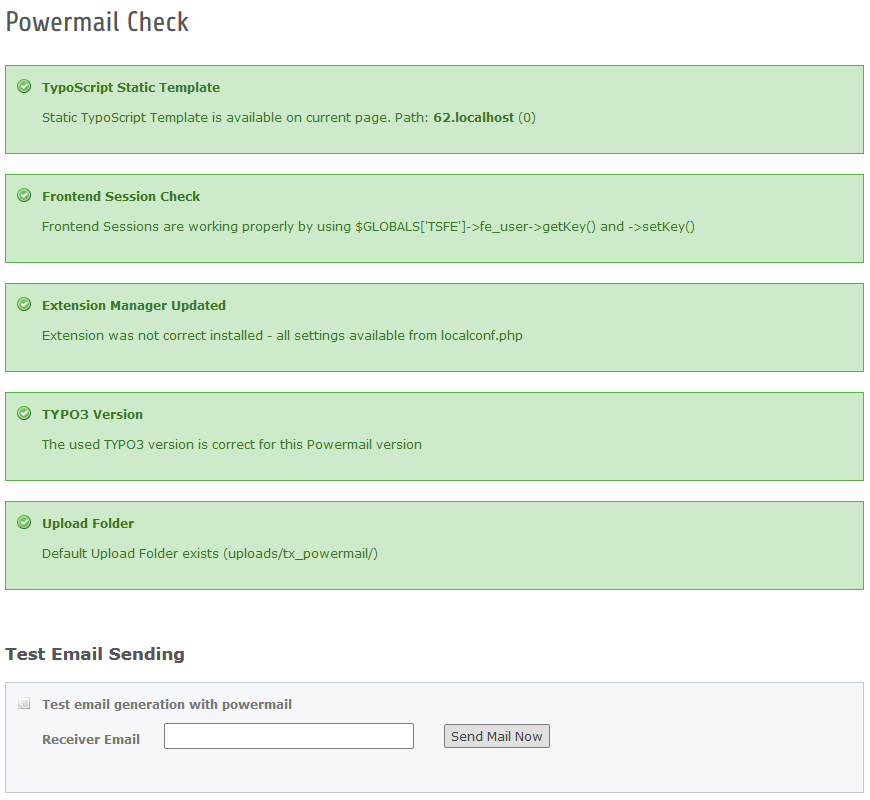
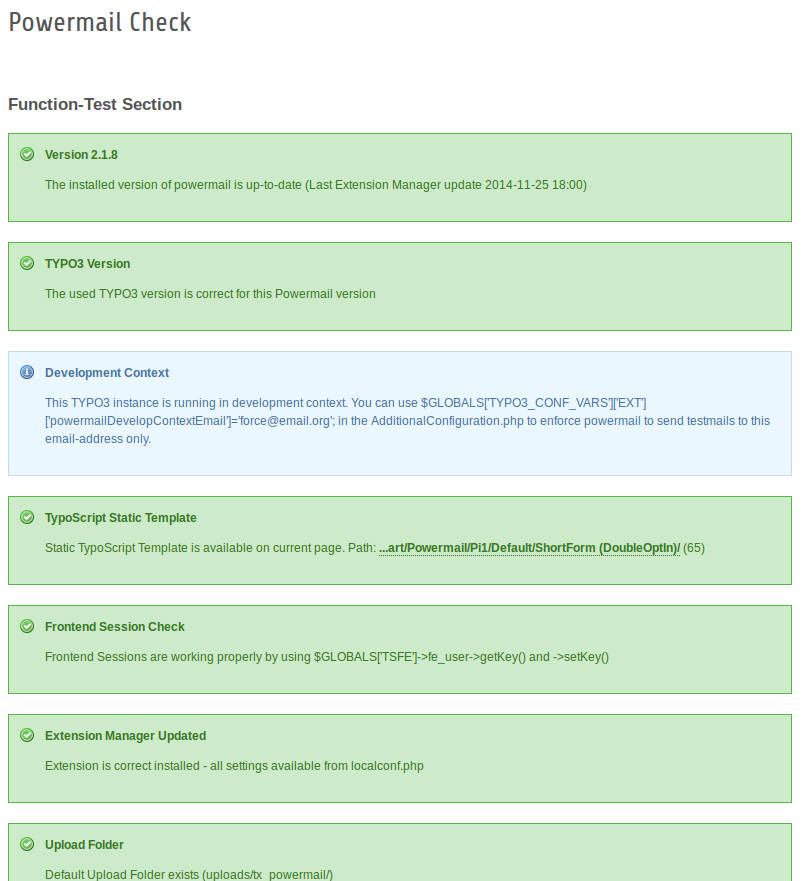
[TASK] Added some more information to Documentation/Backend Module

diff --git a/Documentation/ForEditors/ManageMailsWithBackendModule/Index.rst b/Documentation/ForEditors/ManageMailsWithBackendModule/Index.rst
@@ -290,7 +290,89 @@ Function Check
 This views helps you to identify problems with your TYPO3-Installation and Powermail.
 Beside some basic checks there is a mail function. This function basicly works like the main powermail mail function. Test this function if your forms don't send mails.
 
+Note: This view is for admins only.
+
 |img-81f|
+
+.. t3-field-list-table::
+ :header-rows: 1
+
+ - :Title:
+      Title
+   :Description:
+      Description
+   :Additional:
+      Additional
+
+ - :Title:
+      Version
+   :Description:
+      This line shows you the current version of powermail.
+   :Additional:
+      If there are values in tx_extensionmanager_domain_model_extension, you will see a note if there is a newer version of powermail available. If a powermail version was marked as unsecure, this is also shown.
+
+ - :Title:
+      TYPO3 Version
+   :Description:
+      This check compares if the installed powermail version fits to the support TYPO3 version.
+   :Additional:
+      -
+
+ - :Title:
+      Development Context
+   :Description:
+      This line gives you a hint if you use powermailDevelopContextEmail to send all mails to a defined receiver
+   :Additional:
+      This note is only shown, if your TYPO3 runs in Development Context
+
+ - :Title:
+      TypoScript Static Template
+   :Description:
+      Checks if TypoScript is available on current page
+   :Additional:
+      -
+
+ - :Title:
+      Frontend Session Check
+   :Description:
+      Check if Installation can work with FE-Sessions
+   :Additional:
+      -
+
+ - :Title:
+      Extension Manager Updated
+   :Description:
+      Check if all params from Extension Manager settings are available
+   :Additional:
+      -
+
+ - :Title:
+      Upload Folder
+   :Description:
+      Check if folder uploads/tx_powermail/ exists
+   :Additional:
+      If folder does not exist, you can create one, by clicking the "fix it"-button
+
+ - :Title:
+      Localized Forms
+   :Description:
+      Check if there are failures in localized forms
+   :Additional:
+      If there are failures (field pages must not be empty), there is an option to fix it (please backup your database before!)
+
+ - :Title:
+      Localized Fields
+   :Description:
+      Check if there are failures in localized fields
+   :Additional:
+      If there are failures (field marker should be empty), there is an option to fix it (please backup your database before!)
+
+ - :Title:
+      Test Email Sending
+   :Description:
+      If you are not sure if powermail can send mails, enter your email-address and press "Send Mail Now"
+   :Additional:
+      This test is similar to the test in install tool, but this test uses SwiftMailer (the mailer class that uses powermail)
 
 Form Converter
 ~~~~~~~~~~~~~~
